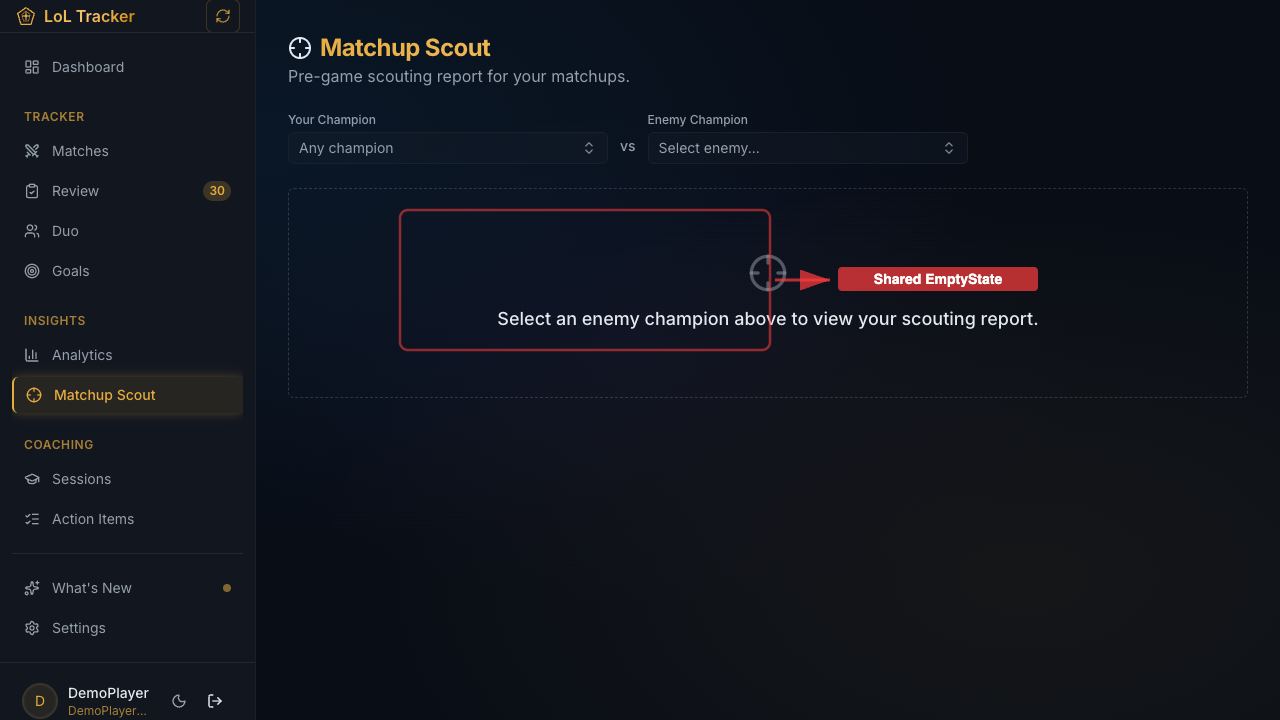
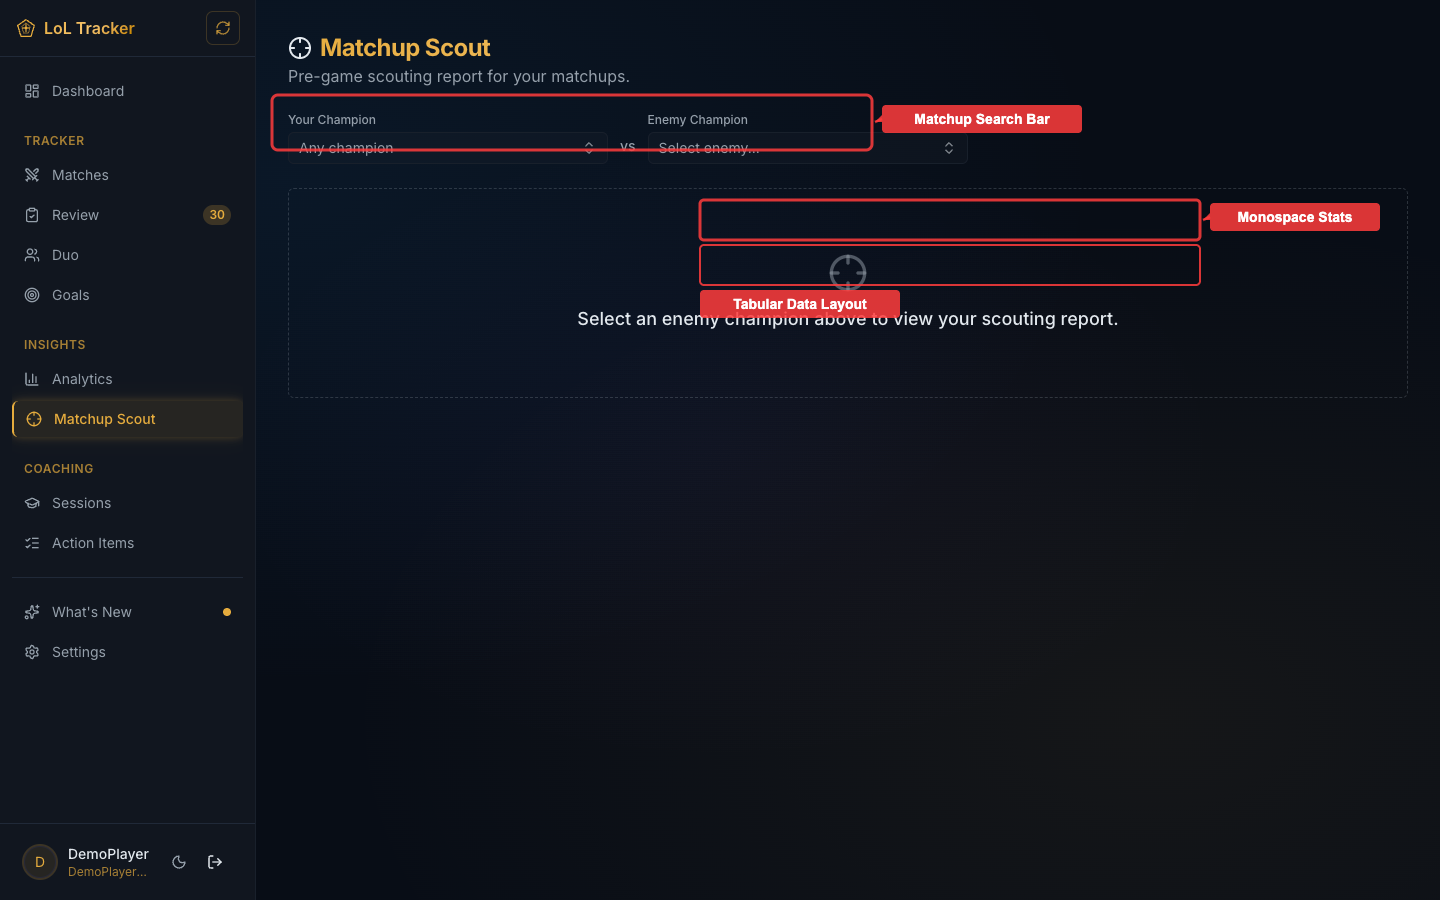
fix: re-capture screenshots at 1440x900 and fix changelog image zoom lightbox
- Re-capture all 24 before/after/annotated screenshots at 1440x900
  viewport (previously 1280x720) for higher fidelity
- Fix changelog image zoom: use createPortal to render lightbox overlay
  at document.body, escaping Card's overflow-hidden clipping

Relates to #44

diff --git a/src/app/(app)/changelog/changelog-image.tsx b/src/app/(app)/changelog/changelog-image.tsx
@@ -1,6 +1,7 @@
 "use client";
 
 import { useCallback, useEffect, useRef, useState } from "react";
+import { createPortal } from "react-dom";
 
 export function ChangelogImage(props: React.ImgHTMLAttributes<HTMLImageElement>) {
   const [open, setOpen] = useState(false);
@@ -30,34 +31,36 @@ export function ChangelogImage(props: React.ImgHTMLAttributes<HTMLImageElement>)
         {/* eslint-disable-next-line @next/next/no-img-element */}
         <img {...props} alt={props.alt ?? ""} />
       </button>
-      {open && (
-        <div
-          ref={overlayRef}
-          role="dialog"
-          aria-label={props.alt ?? "Image preview"}
-          tabIndex={-1}
-          className="fixed inset-0 z-50 flex cursor-zoom-out items-center justify-center bg-black/80 p-4"
-          onClick={close}
-          onKeyDown={(e) => {
-            if (e.key === "Escape") close();
-          }}
-        >
-          {/* Stop clicks on the image from closing the overlay */}
+      {open &&
+        createPortal(
           <div
-            className="contents"
-            role="presentation"
-            onClick={(e) => e.stopPropagation()}
-            onKeyDown={(e) => e.stopPropagation()}
+            ref={overlayRef}
+            role="dialog"
+            aria-label={props.alt ?? "Image preview"}
+            tabIndex={-1}
+            className="fixed inset-0 z-50 flex cursor-zoom-out items-center justify-center bg-black/80 p-4"
+            onClick={close}
+            onKeyDown={(e) => {
+              if (e.key === "Escape") close();
+            }}
           >
-            {/* eslint-disable-next-line @next/next/no-img-element */}
-            <img
-              src={props.src}
-              alt={props.alt ?? ""}
-              className="max-h-[90vh] max-w-[90vw] rounded-lg object-contain"
-            />
-          </div>
-        </div>
-      )}
+            {/* Stop clicks on the image from closing the overlay */}
+            <div
+              className="contents"
+              role="presentation"
+              onClick={(e) => e.stopPropagation()}
+              onKeyDown={(e) => e.stopPropagation()}
+            >
+              {/* eslint-disable-next-line @next/next/no-img-element */}
+              <img
+                src={props.src}
+                alt={props.alt ?? ""}
+                className="max-h-[90vh] max-w-[90vw] rounded-lg object-contain"
+              />
+            </div>
+          </div>,
+          document.body,
+        )}
     </>
   );
 }
